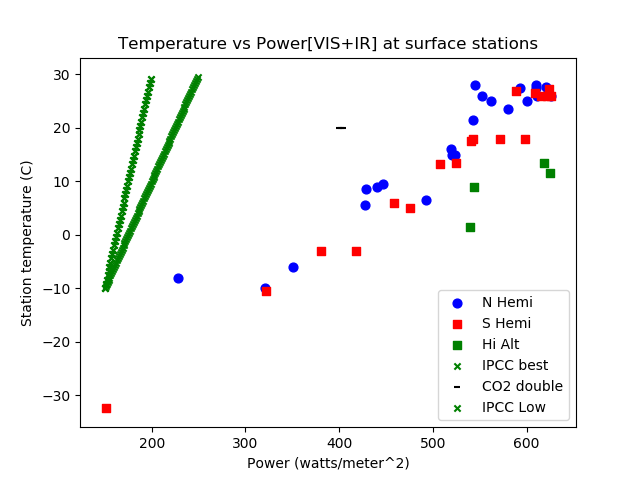
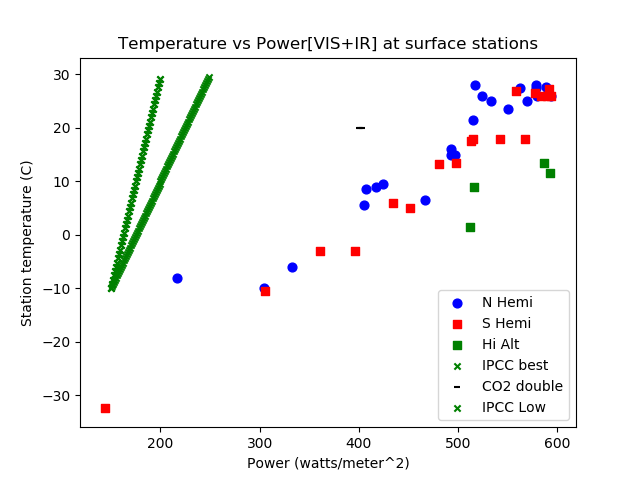
calibrate power to trenberth

diff --git a/clisen.py b/clisen.py
@@ -60,18 +60,18 @@ def global_power_check():
 def IR_down(lat):
   _powers = [120.0, 320.0, 400, 320,120.0]
   _latts = [-90.0,-60, 0, 60.0, 90.0 ]
-  P =  np.interp(lat, _latts, list(_powers))
+  P = 0.955 *  np.interp(lat, _latts, list(_powers))
   return P
 
 def IR_abs(lat):
   _apowers = [30.0, 78.0, 100, 78.0, 30.0]
-  _alatts = [-90.0,-60, 0, 60.0, 90.0 ]
-  P =  np.interp(lat, _alatts, list(_apowers))
+  _alatts = [ -90.0,-60, 0, 60.0, 90.0 ]
+  P =   np.interp(lat, _alatts, list(_apowers))
   return P
 
 #https://www.giss.nasa.gov/research/briefs/rossow_01/distrib.html  
 def rawPower(lat, land= 0.5, sea=0.5):
-  P =  np.interp(lat, latluts.lattitude, list(reversed(latluts.power)))
+  P = 0.955 *  np.interp(lat, latluts.lattitude, list(reversed(latluts.power)))
   refloss = cloud.reflect *((land*cloud.land)+(sea*cloud.sea))
   abloss = IR_abs(lat)
   VIS = ((P*(1-refloss))- abloss)  * (1-albbylat(lat))

diff --git a/README.md b/README.md
@@ -31,8 +31,8 @@ The following table presents the measured temperature sensitivities with two def
 
   Hemisphere|VIS+IR|VIS+Ab|IR only|units|
  --|------|---|----|------|
- N|0.111|0.169|0.222|K / (w/m^2)|
- S|0.126|0.201|0.236|K / (w/m^2)|
+ N|0.118|0.177|0.234|K / (w/m^2)|
+ S|0.132|0.212|0.247|K / (w/m^2)|
 
 One great advantage of this method is that there is plenty of signal here.  Temperature ranges across 60 degrees K and power ranges over 400 watts per meter squared. Disputes over small adjustments in temperature, common when looking at time series temperature data to tease out the magnitude of CO2 driven warming,  will not have much effect on these measured sensitivities.  Reviewers or critics might come forward with some valid criticisms of how power numbers are calculated.
 
